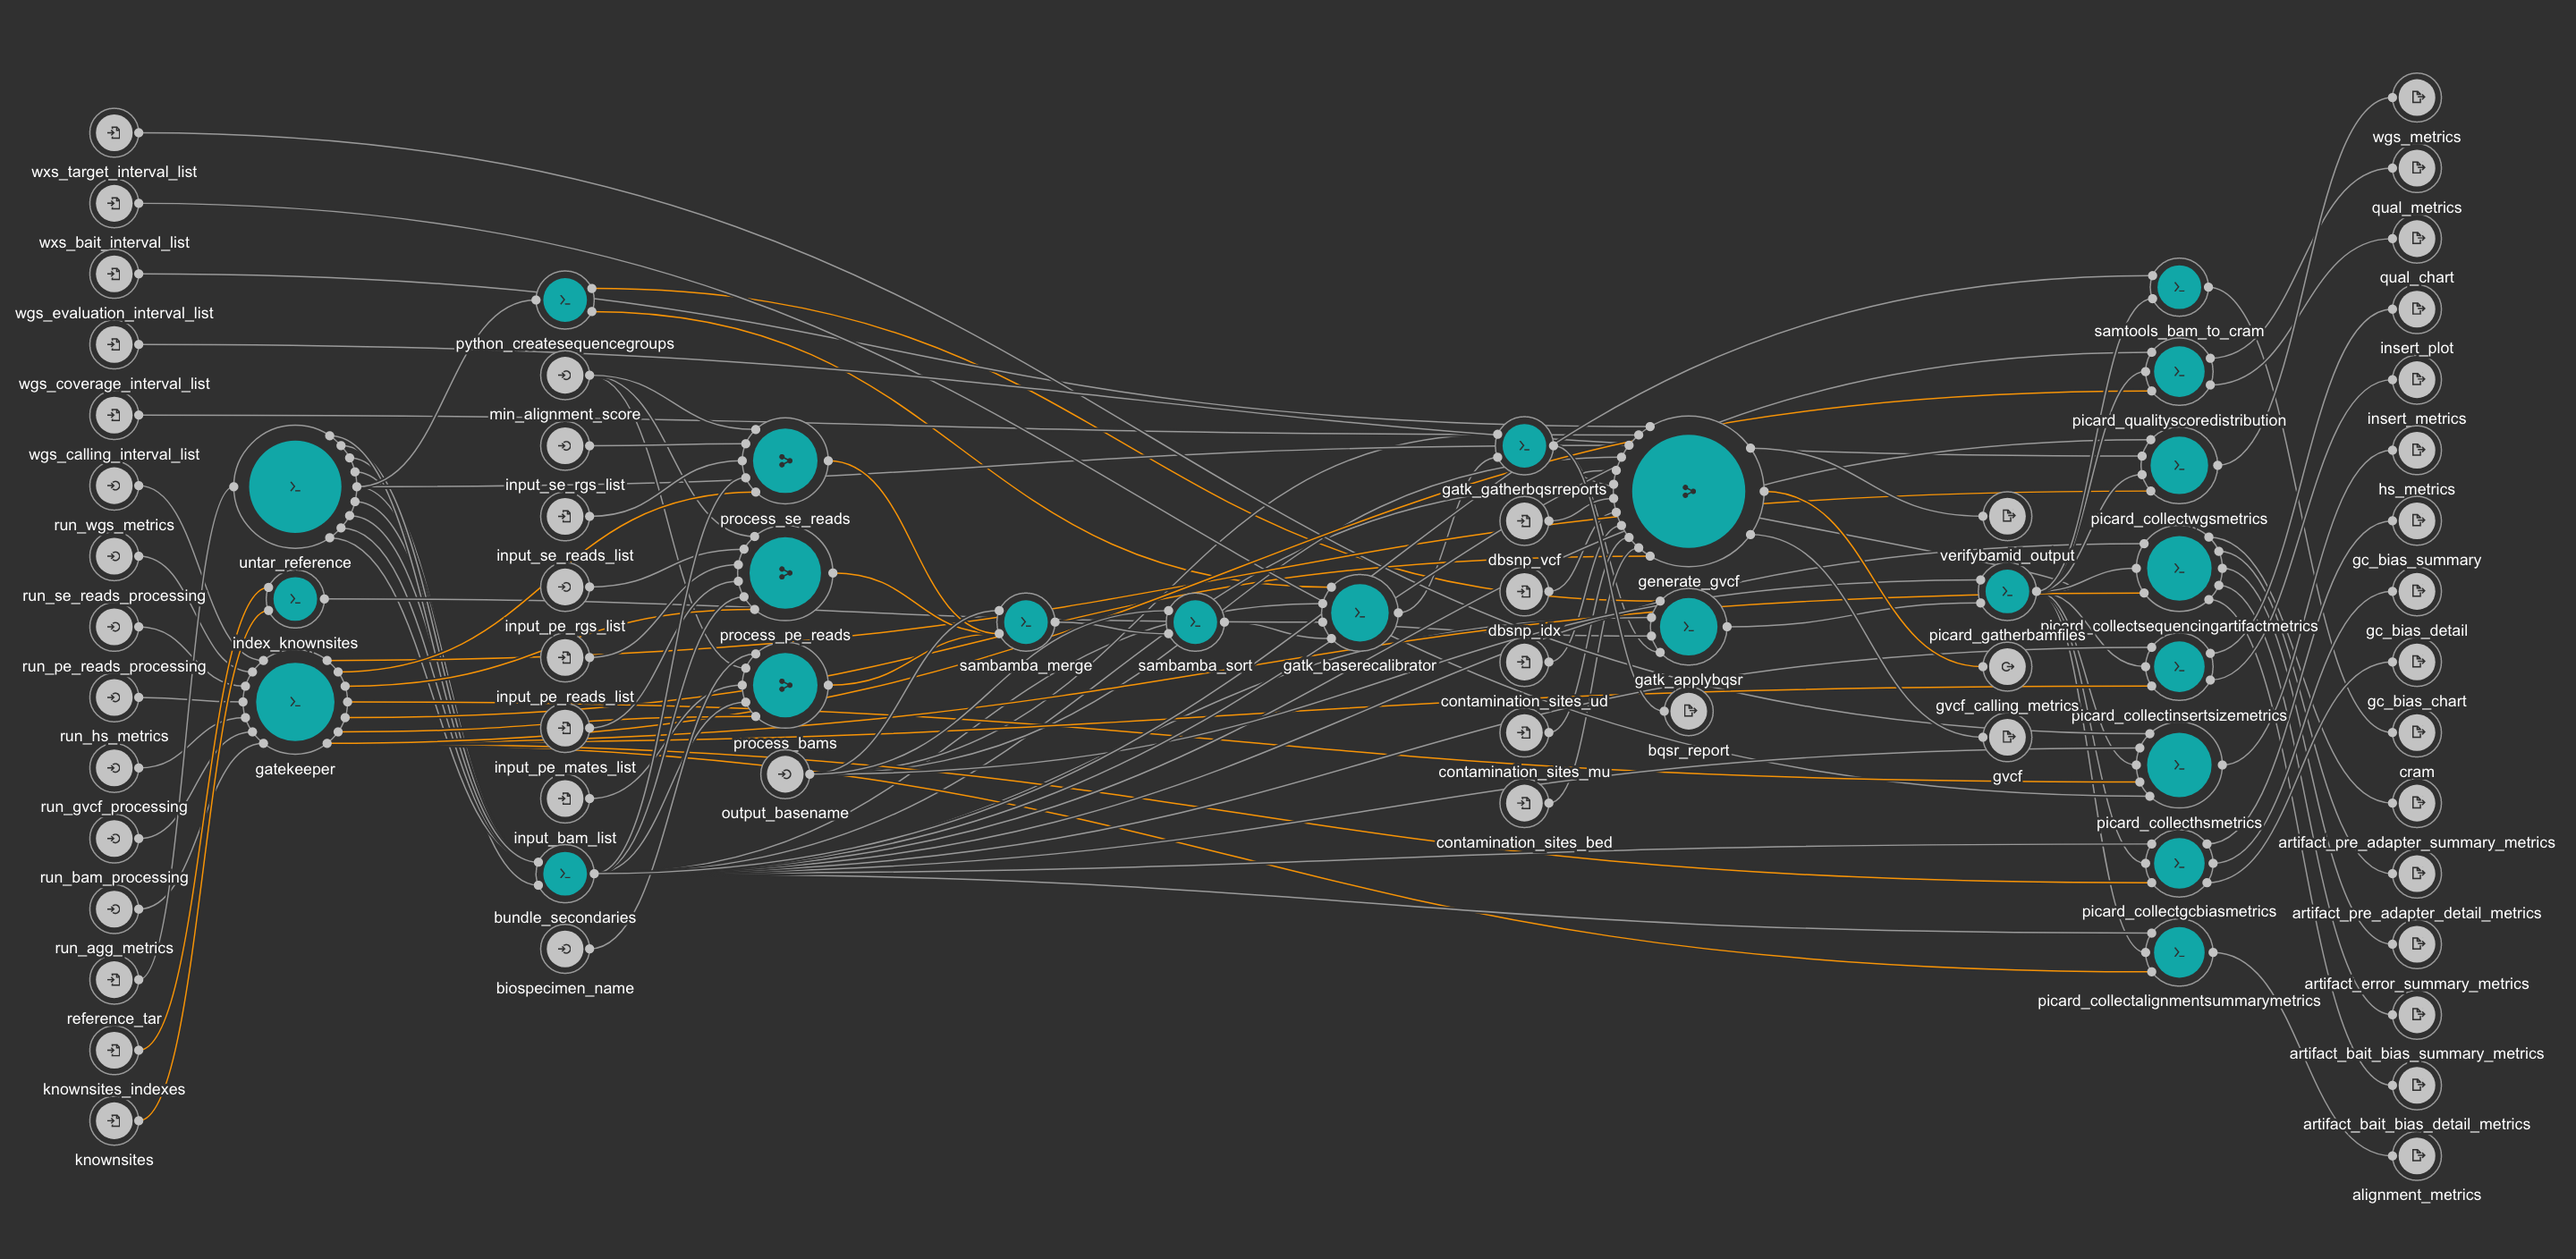
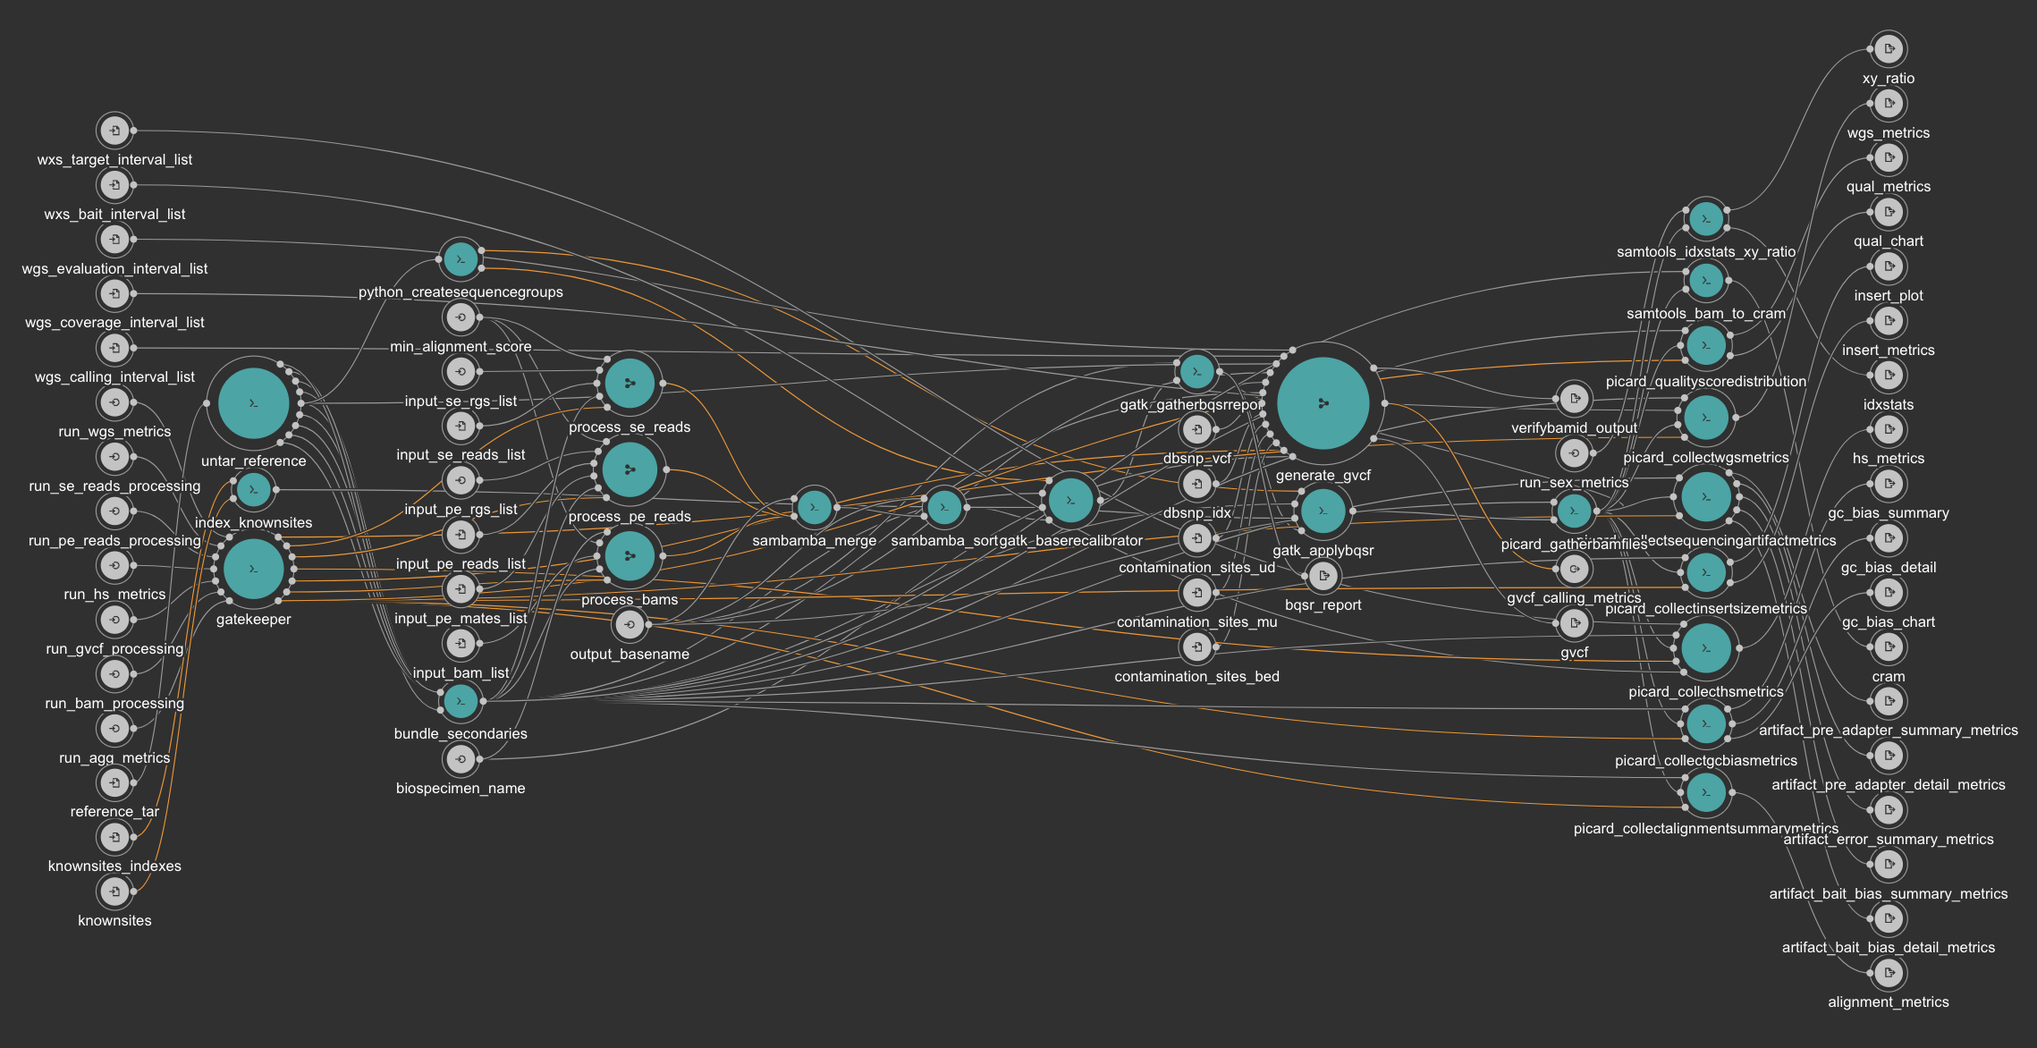
:books: resync alignment doc and readme
:books: describe outputs

diff --git a/readme.md b/readme.md
@@ -85,6 +85,32 @@ to `true`; no additonal inputs are required.
   min_alignment_score: { type: 'int?', default: 30, doc: "For BWA MEM, Don't output alignment with score lower than INT. This option only affects output." }
 ```
 
+### Outputs:
+```yaml
+  cram: {type: File, outputSource: samtools_bam_to_cram/output, doc: "(Re)Aligned Reads File"}
+  gvcf: {type: 'File[]?', outputSource: generate_gvcf/gvcf, doc: "Genomic VCF generated from the realigned alignment file."}
+  verifybamid_output: {type: 'File[]?', outputSource: generate_gvcf/verifybamid_output, doc: "Ouput from VerifyBamID that is used to calculate contamination."}
+  bqsr_report: {type: File, outputSource: gatk_gatherbqsrreports/output, doc: "Recalibration report from BQSR."}
+  gvcf_calling_metrics: {type: ['null', {type: array, items: {type: array, items: File}}], outputSource: generate_gvcf/gvcf_calling_metrics, doc: "General metrics for gVCF calling quality."}
+  hs_metrics: {type: 'File[]?', outputSource: picard_collecthsmetrics/output, doc: "Picard CollectHsMetrics metrics for the analysis of target-capture sequencing experiments."}
+  wgs_metrics: {type: 'File[]?', outputSource: picard_collectwgsmetrics/output, doc: "Picard CollectWgsMetrics metrics for evaluating the performance of whole genome sequencing experiments."}
+  alignment_metrics: {type: 'File[]?', outputSource: picard_collectalignmentsummarymetrics/output, doc: "Picard CollectAlignmentSummaryMetrics high level metrics about the alignment of reads within a SAM file."}
+  gc_bias_detail: {type: 'File[]?', outputSource: picard_collectgcbiasmetrics/detail, doc: "Picard CollectGcBiasMetrics detailed metrics about reads that fall within windows of a certain GC bin on the reference genome."}
+  gc_bias_summary: {type: 'File[]?', outputSource: picard_collectgcbiasmetrics/summary, doc: "Picard CollectGcBiasMetrics high level metrics that capture how biased the coverage in a certain lane is."}
+  gc_bias_chart: {type: 'File[]?', outputSource: picard_collectgcbiasmetrics/chart, doc: "Picard CollectGcBiasMetrics plot of GC bias."}
+  insert_metrics: {type: 'File[]?', outputSource: picard_collectinsertsizemetrics/metrics, doc: "Picard CollectInsertSizeMetrics metrics about the insert size distribution of a paired-end library."}
+  insert_plot: {type: 'File[]?', outputSource: picard_collectinsertsizemetrics/plot, doc: "Picard CollectInsertSizeMetrics insert size distribution plotted."}
+  artifact_bait_bias_detail_metrics: {type: 'File[]?', outputSource: picard_collectsequencingartifactmetrics/bait_bias_detail_metrics, doc: "Picard CollectSequencingArtifactMetrics bait bias artifacts broken down by context."}
+  artifact_bait_bias_summary_metrics: {type: 'File[]?', outputSource: picard_collectsequencingartifactmetrics/bait_bias_summary_metrics, doc: "Picard CollectSequencingArtifactMetrics summary analysis of a single bait bias artifact."}
+  artifact_error_summary_metrics: {type: 'File[]?', outputSource: picard_collectsequencingartifactmetrics/error_summary_metrics, doc: "Picard CollectSequencingArtifactMetrics summary metrics as a roll up of the context-specific error rates, to provide global error rates per type of base substitution."}
+  artifact_pre_adapter_detail_metrics: {type: 'File[]?', outputSource: picard_collectsequencingartifactmetrics/pre_adapter_detail_metrics, doc: "Picard CollectSequencingArtifactMetrics pre-adapter artifacts broken down by context."}
+  artifact_pre_adapter_summary_metrics: {type: 'File[]?', outputSource: picard_collectsequencingartifactmetrics/pre_adapter_summary_metrics, doc: "Picard CollectSequencingArtifactMetrics summary analysis of a single pre-adapter artifact."}
+  qual_metrics: {type: 'File[]?', outputSource: picard_qualityscoredistribution/metrics, doc: "Quality metrics for the realigned CRAM."}
+  qual_chart: {type: 'File[]?', outputSource: picard_qualityscoredistribution/chart, doc: "Visualization of quality metrics."}
+  idxstats: {type: 'File?', outputSource: samtools_idxstats_xy_ratio/output, doc: "samtools idxstats of the realigned BAM file."}
+  xy_ratio: {type: 'File?', outputSource: samtools_idxstats_xy_ratio/ratio, doc: "Text file containing X and Y reads statistics generated from idxstats."}
+```
+
 #### Detailed Input Information:
 The pipeline is build to handle three distinct input types:
 1. BAMs
@@ -397,7 +423,7 @@ wgs_evaluation_interval_list:
 
 ### Outputs
 gvcf: The germline variants calls in VCF format
-gvcf_calling_metrics: Various metrics from the creation of the gVCF 
+gvcf_calling_metrics: Various metrics from the creation of the gVCF
 verifybamid_output: If contamination is calculated rather than handed in by the user, the workflow will provide the output from verifybamid
 
 ### Tips for running:
